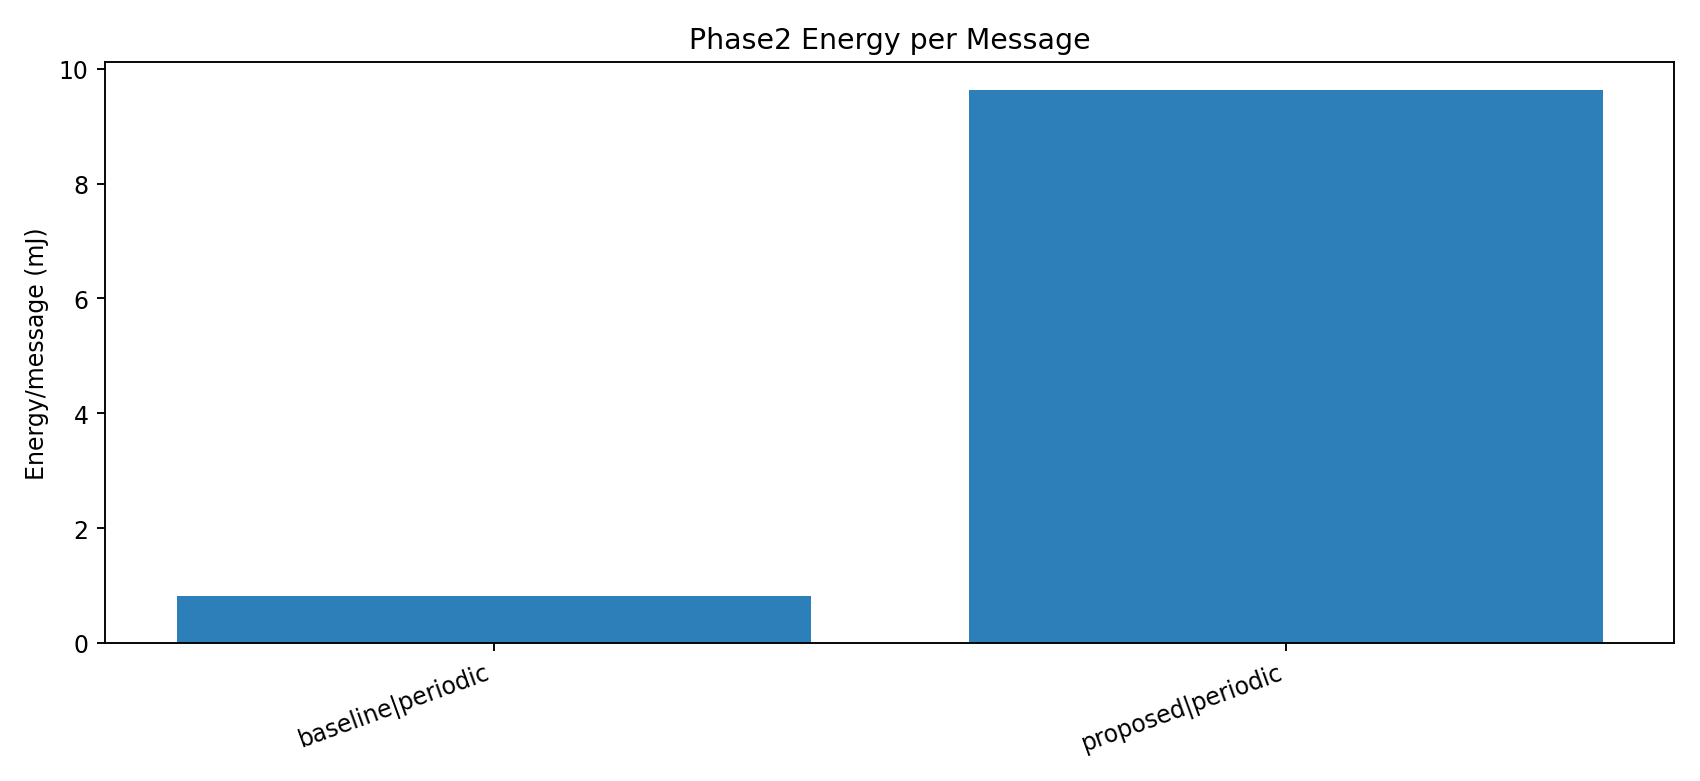
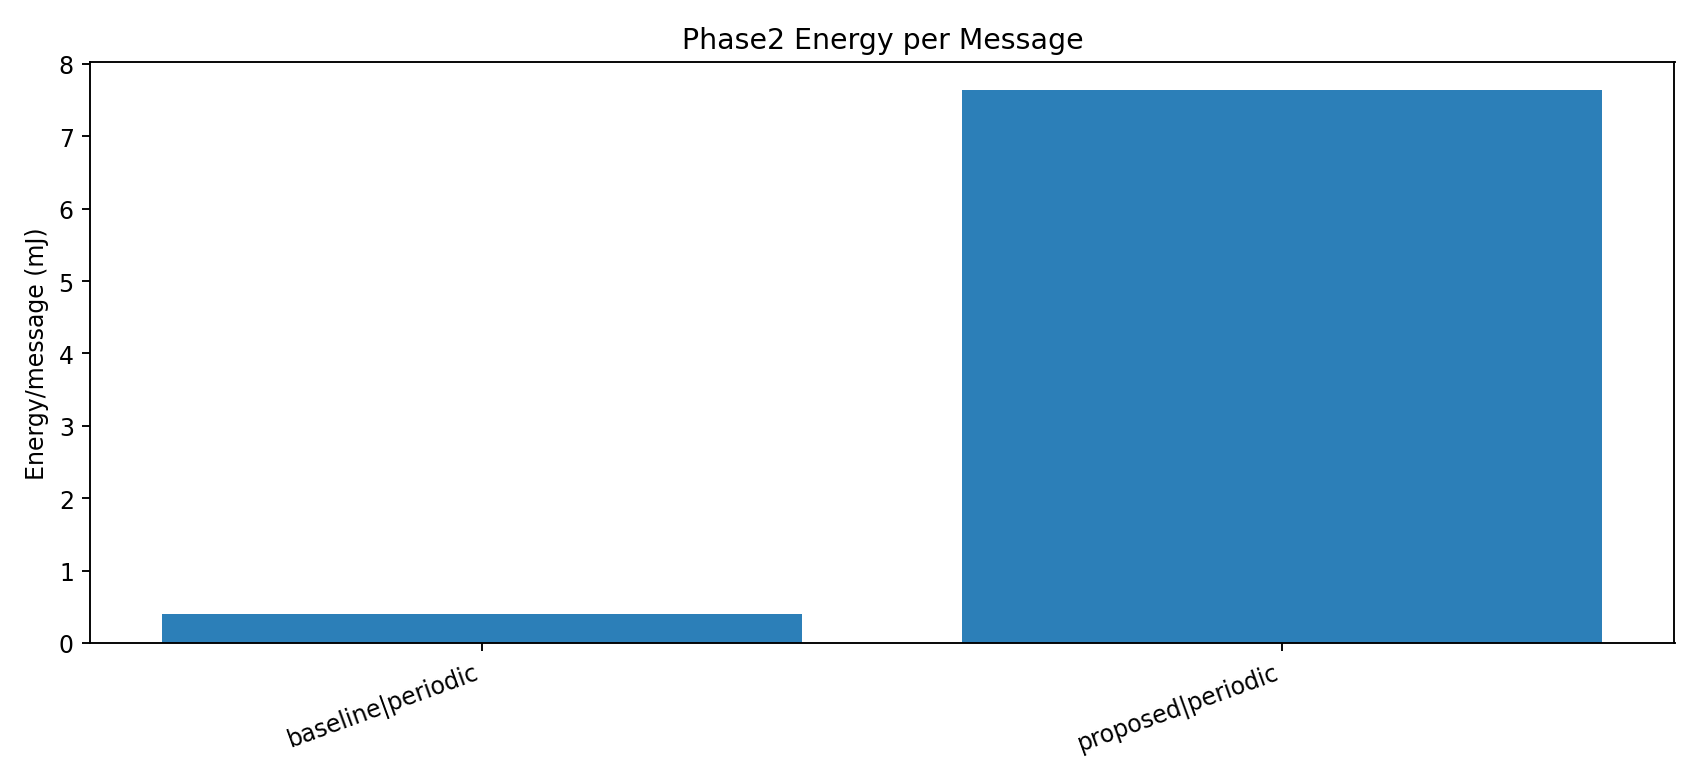
initial commit

diff --git a/results/paper_draft.md b/results/paper_draft.md
@@ -51,15 +51,15 @@ Phase 1 energy per message regressed by 1292.47% (higher than baseline).
 ### Phase 2 Hardware-in-the-Loop Summary (Mega2560 + R307)
 | Protocol | Device Class | Scenario | Delivered/Total | Delivery (%) | Handshake (ms) | Resume Hit (%) | Sensor->ACK p50 (ms) | Sensor->ACK p95 (ms) | Throughput (events/s) | Energy/msg (mJ) |
 |---|---|---|---|---:|---:|---:|---:|---:|---:|---:|
-| baseline | mega2560_r307s | periodic | 30/30 | 100.00 | 40.559 | 0.00 | 224.033 | 417.000 | 983.961 | 0.813 |
+| baseline | mega2560_r307s | periodic | 30/60 | 50.00 | 1716515967443.179 | 0.00 | 224.033 | 417.000 | 276.210 | 0.407 |
 | baseline | mega2560_sim | periodic | 5/5 | 100.00 | 4.442 | 0.00 | 1.000 | 1.000 | 2008.032 | 0.299 |
-| proposed | mega2560_r307s | periodic | 115/115 | 100.00 | 46.110 | 100.00 | 25687.713 | 116922.000 | 83.083 | 9.629 |
+| proposed | mega2560_r307s | periodic | 115/145 | 79.31 | 1612484624880.646 | 100.00 | 25687.713 | 116922.000 | 73.171 | 7.639 |
 | proposed | mega2560_sim | periodic | 5/5 | 100.00 | 37.815 | 100.00 | 7.800 | 9.000 | 127.600 | 4.702 |
 
-Phase 2 handshake latency regressed by 86.50% (higher than baseline).
+Phase 2 handshake latency improved by 6.06% (lower is better).
 Phase 2 sensor-to-ACK latency (p50) regressed by 11318.54% (higher than baseline).
-Phase 2 throughput regressed by 92.96% (lower than baseline).
-Phase 2 energy per message regressed by 1189.13% (higher than baseline).
+Phase 2 throughput regressed by 91.21% (lower than baseline).
+Phase 2 energy per message regressed by 1649.14% (higher than baseline).
 
 ## Results
 Handshake latency regressed by 2177.23% (higher than baseline).

diff --git a/results/tables/phase2_summary.md b/results/tables/phase2_summary.md
@@ -2,7 +2,7 @@
 
 | Protocol | Device | Scenario | Runs | Delivered | Delivery % | Handshake (ms) | Resume Hit % | Sensor->ACK p50 (ms) | Sensor->ACK p95 (ms) | Throughput (events/s) | Retry Avg | Free RAM Min (bytes) | Energy/msg (mJ) |
 |---|---|---|---:|---:|---:|---:|---:|---:|---:|---:|---:|---:|---:|
-| baseline | mega2560_r307s | periodic | 1 | 30/30 | 100.00 | 40.559 | 0.00 | 224.033 | 417.000 | 983.961 | 0.000 | 7747 | 0.813 |
+| baseline | mega2560_r307s | periodic | 2 | 30/60 | 50.00 | 1716515967443.179 | 0.00 | 224.033 | 417.000 | 276.210 | 0.000 | 1 | 0.407 |
 | baseline | mega2560_sim | periodic | 1 | 5/5 | 100.00 | 4.442 | 0.00 | 1.000 | 1.000 | 2008.032 | 0.000 | 4096 | 0.299 |
-| proposed | mega2560_r307s | periodic | 2 | 115/115 | 100.00 | 46.110 | 100.00 | 25687.713 | 116922.000 | 83.083 | 0.000 | 7747 | 9.629 |
+| proposed | mega2560_r307s | periodic | 3 | 115/145 | 79.31 | 1612484624880.646 | 100.00 | 25687.713 | 116922.000 | 73.171 | 0.000 | 1 | 7.639 |
 | proposed | mega2560_sim | periodic | 1 | 5/5 | 100.00 | 37.815 | 100.00 | 7.800 | 9.000 | 127.600 | 0.000 | 4096 | 4.702 |
